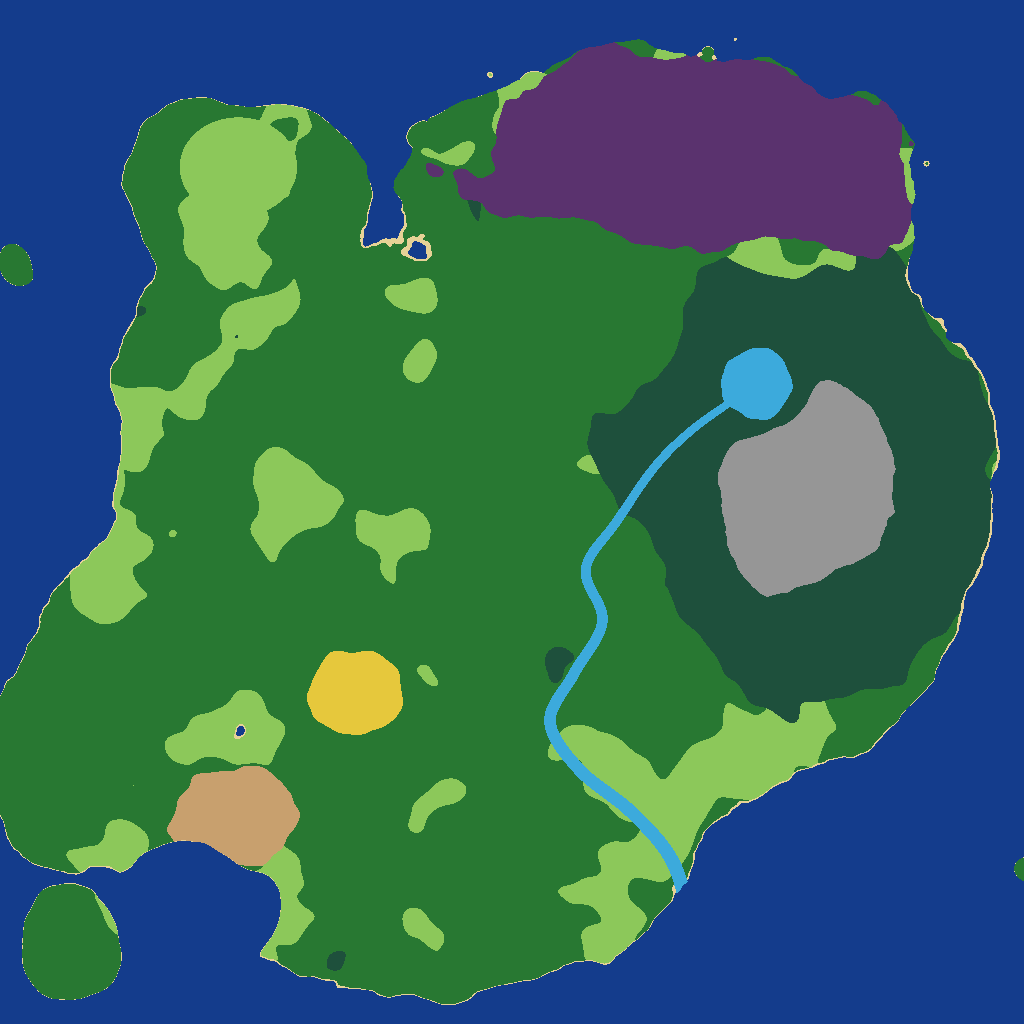
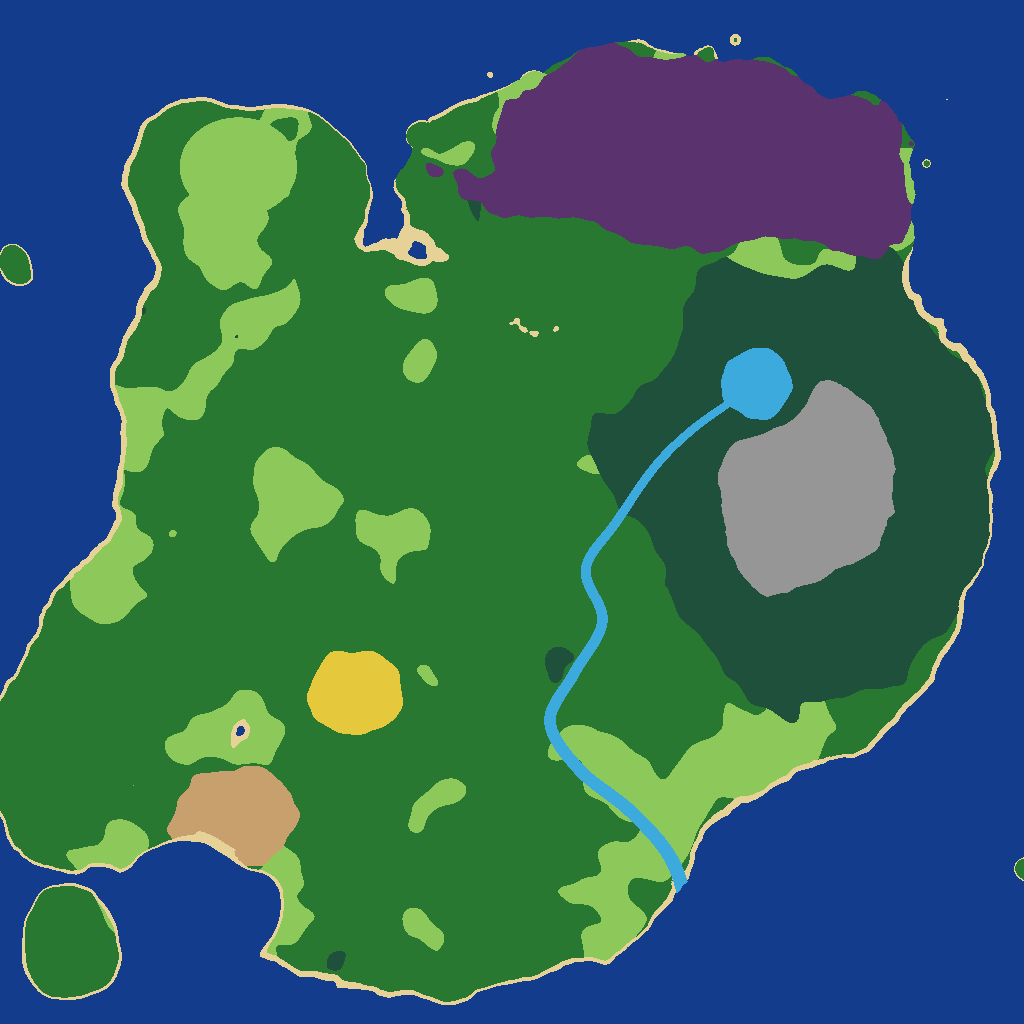
Playas de anchura variable (y playa del pueblo), plataforma de aguas someras, copas lejanas mas oscuras

diff --git a/tools/island_baker/IslandBaker.cs b/tools/island_baker/IslandBaker.cs
@@ -231,13 +231,14 @@ public static class IslandBaker
                 float h;
                 if (c < 0f)
                 {
-                    h = SEA - 1f + c * 80f;  // plataforma y fondo marino
+                    h = SEA - 1f + c * 45f;  // plataforma de aguas someras (turquesa) y luego fondo
                     if (h < 4f) h = 4f;
                 }
                 else
                 {
                     // La altura sube cerca de la costa y luego la dan las colinas (sin "círculos").
-                    float land = Smooth(c / 0.06f);
+                    // Las colinas empiezan algo tierra adentro: deja una franja llana para playas.
+                    float land = Smooth((c - 0.03f) / 0.10f);
                     h = SEA + 0.8f + Smooth(c / 0.22f) * 14f;
                     float hills = Fbm(u * 6f, v * 6f, 5) * 0.5f + 0.5f;
                     h += hills * hills * 30f * land;
@@ -288,6 +289,9 @@ public static class IslandBaker
                 H[i] = h;
             }
         }
+
+        // --- 1b. Playas: franjas de arena de anchura variable junto al mar.
+        bool[] beach = CarveBeaches(H, mountain, corrupt, castle, village);
 
         // --- 2. Lago en una meseta de la montaña.
         int lcx = (int)(FromDesign(LAKE_U) * (N - 1)), lcy = (int)(FromDesign(LAKE_V) * (N - 1));
@@ -402,9 +406,10 @@ public static class IslandBaker
                 if (W[i] > h + 0.25f) b = WATER;
                 else if (h <= SEA) b = OCEAN;
                 else if (corrupt[i] > 0.5f && mountain[i] < 0.35f) b = CORRUPT;
-                else if (h <= SEA + 2.5f && C[i] < 0.08f) b = BEACH;
+                else if (beach[i]) b = BEACH;
                 else if (village[i] > 0.5f) b = VILLAGE;
                 else if (farm[i] > 0.5f) b = FARM;
+                else if (h <= SEA + 2f && C[i] < 0.12f) b = BEACH;
                 else if (mountain[i] > 0.12f) b = (h > 152f) ? ALPINE : PINE;
                 else if (castle[i] > 0.4f) b = MEADOW;
                 else b = (Fbm(u * 9f + 11f, v * 9f + 3f, 3) > -0.12f) ? FOREST : MEADOW;
@@ -443,6 +448,70 @@ public static class IslandBaker
         for (int k = 0; k < names.Length; k++)
             summary += String.Format("  {0}: {1:F1}%\n", names[k], 100.0 * biomeCount[k] / count);
         return summary;
+    }
+
+    // Distancia (en píxeles) de cada punto al mar más cercano: transformada de distancia
+    // "chamfer" en dos pasadas (rápida y suficientemente precisa).
+    static float[] DistanceToSea(float[] H)
+    {
+        int count = N * N;
+        float[] d = new float[count];
+        for (int i = 0; i < count; i++) d[i] = H[i] <= SEA ? 0f : 1e9f;
+        const float D1 = 1f, D2 = 1.4142f;
+        for (int y = 0; y < N; y++)
+            for (int x = 0; x < N; x++)
+            {
+                int i = y * N + x;
+                if (x > 0) d[i] = Math.Min(d[i], d[i - 1] + D1);
+                if (y > 0)
+                {
+                    d[i] = Math.Min(d[i], d[i - N] + D1);
+                    if (x > 0) d[i] = Math.Min(d[i], d[i - N - 1] + D2);
+                    if (x < N - 1) d[i] = Math.Min(d[i], d[i - N + 1] + D2);
+                }
+            }
+        for (int y = N - 1; y >= 0; y--)
+            for (int x = N - 1; x >= 0; x--)
+            {
+                int i = y * N + x;
+                if (x < N - 1) d[i] = Math.Min(d[i], d[i + 1] + D1);
+                if (y < N - 1)
+                {
+                    d[i] = Math.Min(d[i], d[i + N] + D1);
+                    if (x < N - 1) d[i] = Math.Min(d[i], d[i + N + 1] + D2);
+                    if (x > 0) d[i] = Math.Min(d[i], d[i + N - 1] + D2);
+                }
+            }
+        return d;
+    }
+
+    // Aplana una franja junto al mar en una rampa suave de arena. La anchura varía a lo largo de
+    // la costa (playas anchas en unos sitios, casi nada en otros) y en la montaña, la zona
+    // corrupta y la colina de las ruinas la costa se queda en roca (acantilados).
+    static bool[] CarveBeaches(float[] H, float[] mountain, float[] corrupt, float[] castle, float[] village)
+    {
+        float[] dist = DistanceToSea(H);
+        bool[] beach = new bool[N * N];
+        for (int y = 0; y < N; y++)
+        {
+            for (int x = 0; x < N; x++)
+            {
+                int i = y * N + x;
+                float d = dist[i];
+                if (d <= 0f || d > 20f) continue;
+                float u = ToDesign(x / (float)(N - 1)), v = ToDesign(y / (float)(N - 1));
+                float width = 2f + 14f * Smooth(Fbm(u * 7f + 13f, v * 7f + 2f, 3) * 2.2f + 0.45f);
+                float rocky = Math.Max(Math.Max(mountain[i], corrupt[i]), castle[i]);
+                width *= 1f - Smooth((rocky - 0.15f) / 0.3f);
+                width = Math.Max(width, 14f * village[i]);  // el pueblo tiene su playa (y luego muelles)
+                if (d >= width) continue;
+                float t = d / width;
+                float sand = SEA + 0.8f + 2.2f * t;  // la arena sube suavemente desde el agua
+                H[i] = Math.Min(H[i], Lerp(sand, H[i], Smooth(t) * Smooth(t)));
+                beach[i] = t < 0.8f && H[i] <= SEA + 3.5f;
+            }
+        }
+        return beach;
     }
 
     // surface.png: R = bloque de la superficie, G = bloque del subsuelo,
